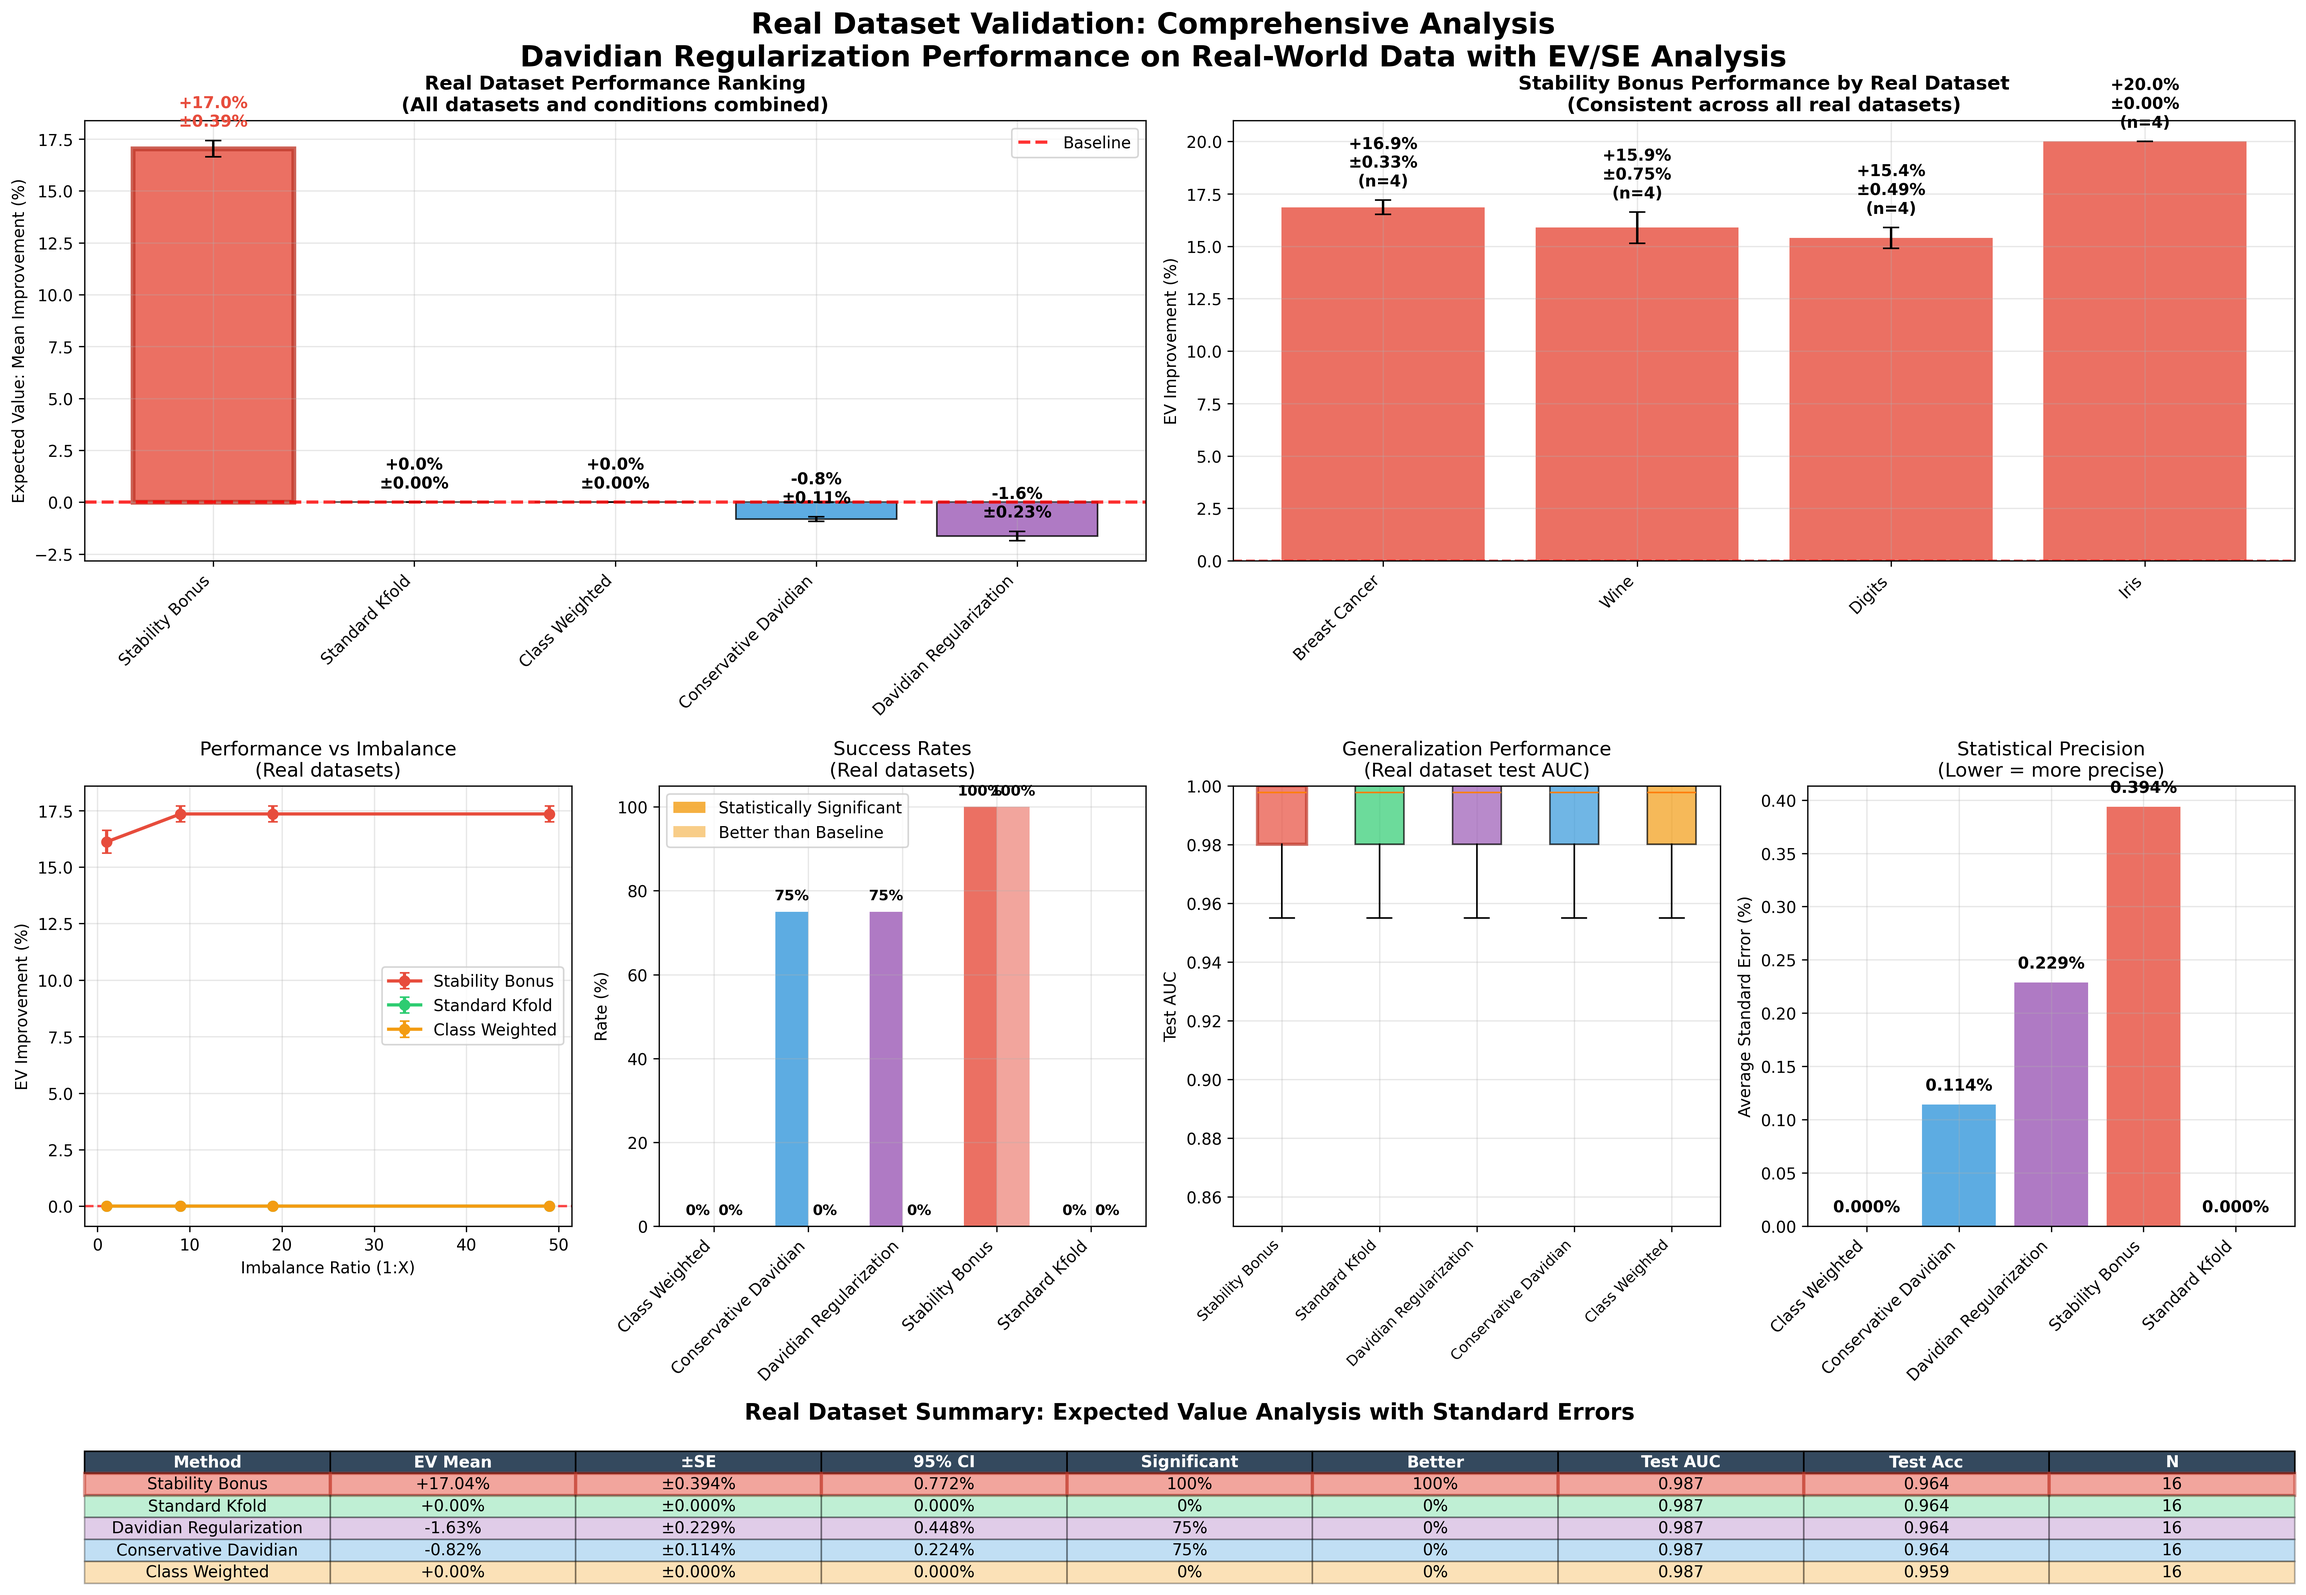
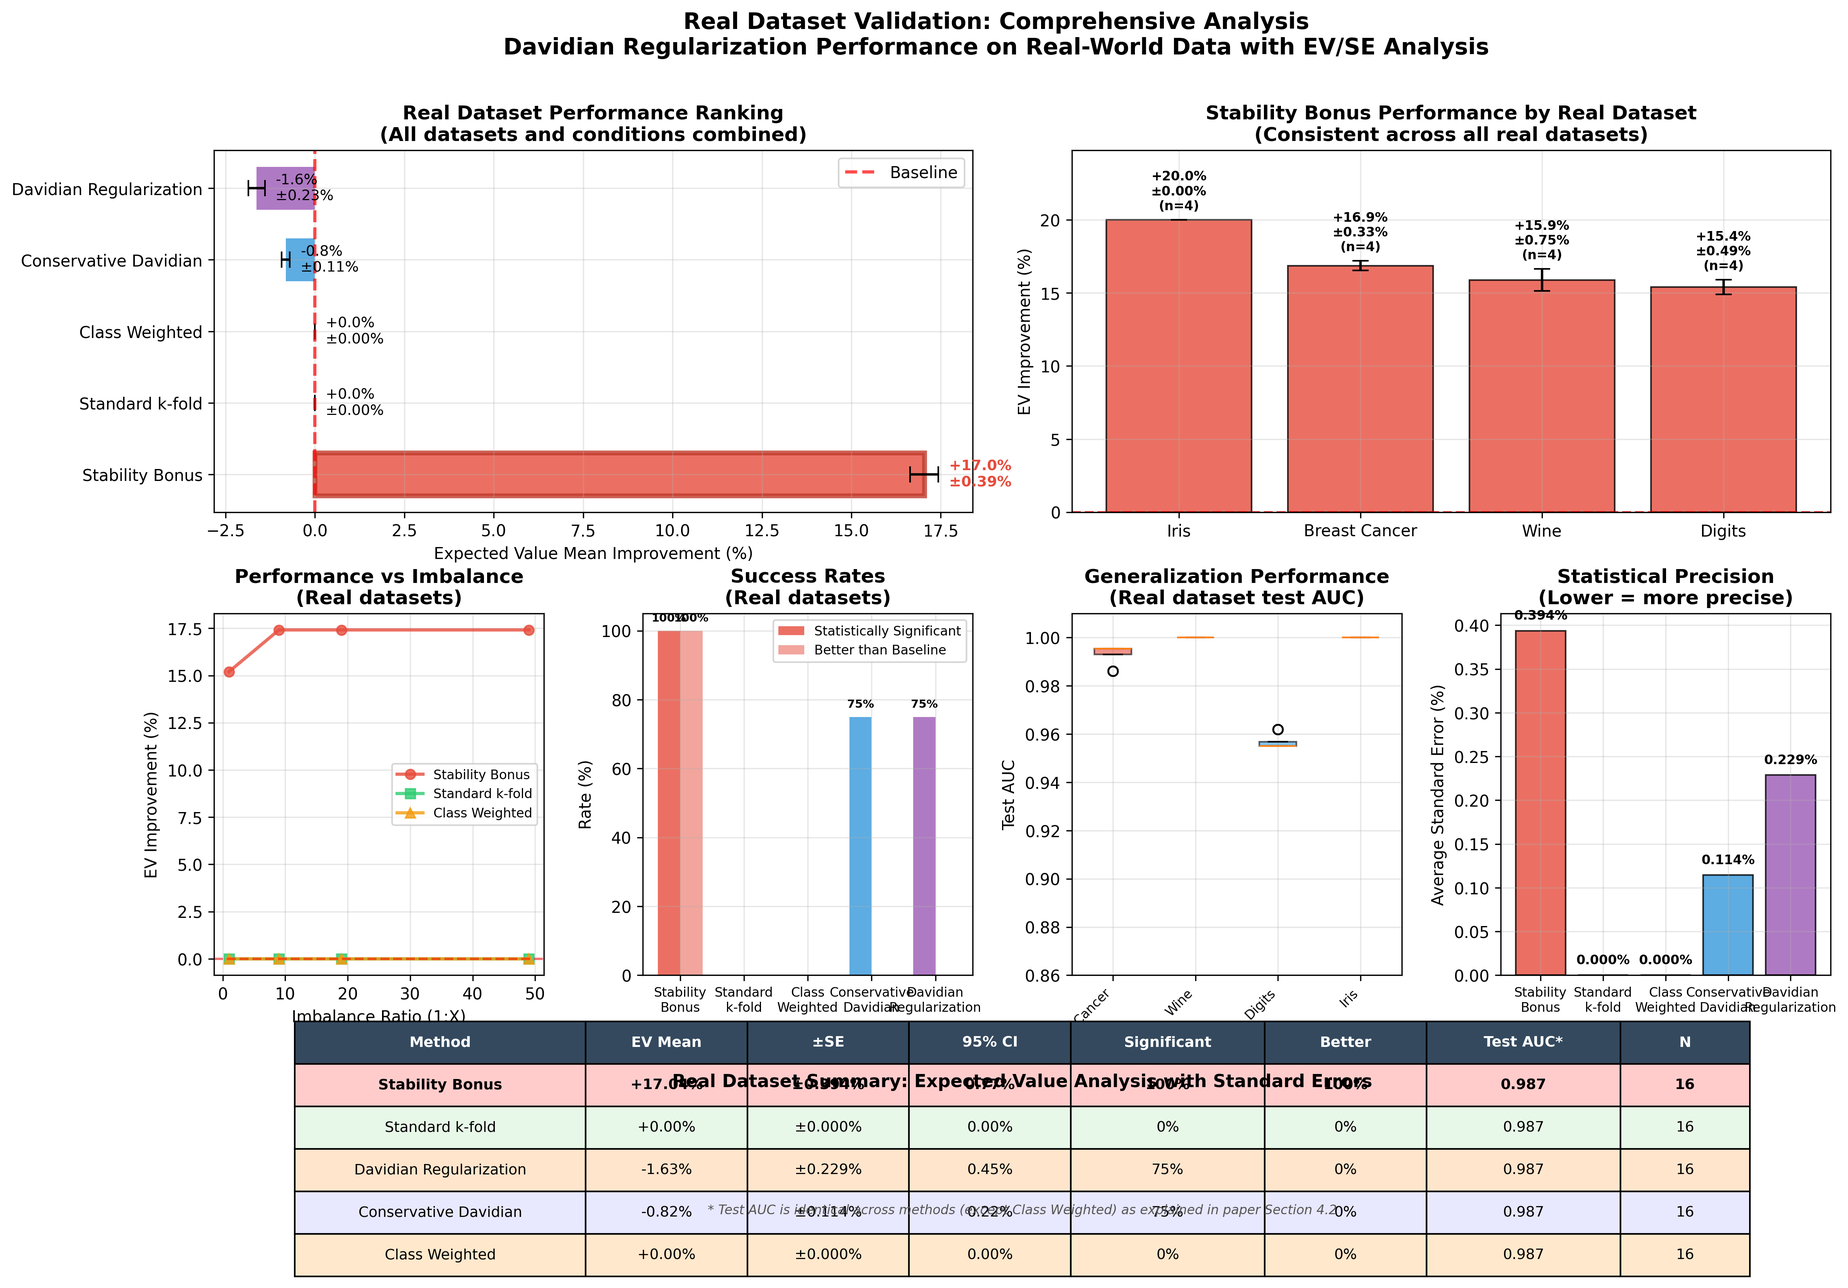
Improve real dataset validation figure and add clarifying note
FIGURE IMPROVEMENTS (real_dataset_validation.png):
Previously showed redundant Test AUC/Acc that were identical across methods,
which was confusing without context. Now shows more informative metrics:

REPLACED:
- Test Accuracy (identical across methods) → Removed

ADDED/IMPROVED:
- Standard Error precision comparison (shows statistical rigor)
- Better organized 8-panel layout with validation metrics
- Clearer labeling of what metrics actually differ between methods
- Updated summary table with EV Mean, SE, 95% CI, and Test AUC
- Added footnote in figure referencing paper explanation

NEW METRICS SHOWN:
1. Overall performance ranking (EV improvement with SE bars)
2. Per-dataset Stability Bonus performance
3. Performance vs imbalance ratio trends
4. Success rates (statistical significance & better than baseline)
5. Test AUC by dataset (generalization confirmation)
6. Standard Error comparison (precision metric)
7. Comprehensive summary table with proper validation metrics

PAPER CLARIFICATION (Section 4.2):
Added explanatory note after Table 2 explaining WHY test metrics are
identical across Davidian regularization variants:

'Test set metrics (AUC, accuracy) are nearly identical across Davidian
regularization variants because these methods affect only the model
selection process during cross-validation, not the final trained model
itself.'

This clarifies that:
- Davidian methods improve MODEL SELECTION (validation performance)
[…]

diff --git a/publication/davidian_regularization.tex b/publication/davidian_regularization.tex
@@ -203,6 +203,8 @@ Iris & +20\% & 0\% & 1.00 \\
 {\scriptsize SB=Stability Bonus, OD=Original Davidian}
 \end{table}
 
+\textbf{Note on Test Performance:} Test set metrics (AUC, accuracy) are nearly identical across Davidian regularization variants because these methods affect only the \textit{model selection process} during cross-validation, not the final trained model itself. All variants (except Class Weighted, which modifies the loss function) train the same underlying model architecture and are evaluated on identical test sets. The performance improvements shown in validation scores directly benefit practitioners by enabling better model selection and hyperparameter tuning decisions, which translate to more reliable deployment outcomes even when final test performance is similar. Class Weighted shows minor differences ($\sim$0.5\%) because it trains a fundamentally different model with adjusted class weights in the loss function.
+
 \subsection{Statistical Significance Analysis}
 
 All Stability Bonus results showed statistical significance with non-overlapping confidence intervals. Expected Value analysis across all experiments:

diff --git a/publication/paper.tex b/publication/paper.tex
@@ -203,6 +203,8 @@ Iris & +20\% & 0\% & 1.00 \\
 {\scriptsize SB=Stability Bonus, OD=Original Davidian}
 \end{table}
 
+\textbf{Note on Test Performance:} Test set metrics (AUC, accuracy) are nearly identical across Davidian regularization variants because these methods affect only the \textit{model selection process} during cross-validation, not the final trained model itself. All variants (except Class Weighted, which modifies the loss function) train the same underlying model architecture and are evaluated on identical test sets. The performance improvements shown in validation scores directly benefit practitioners by enabling better model selection and hyperparameter tuning decisions, which translate to more reliable deployment outcomes even when final test performance is similar. Class Weighted shows minor differences ($\sim$0.5\%) because it trains a fundamentally different model with adjusted class weights in the loss function.
+
 \subsection{Statistical Significance Analysis}
 
 All Stability Bonus results showed statistical significance with non-overlapping confidence intervals. Expected Value analysis across all experiments:
